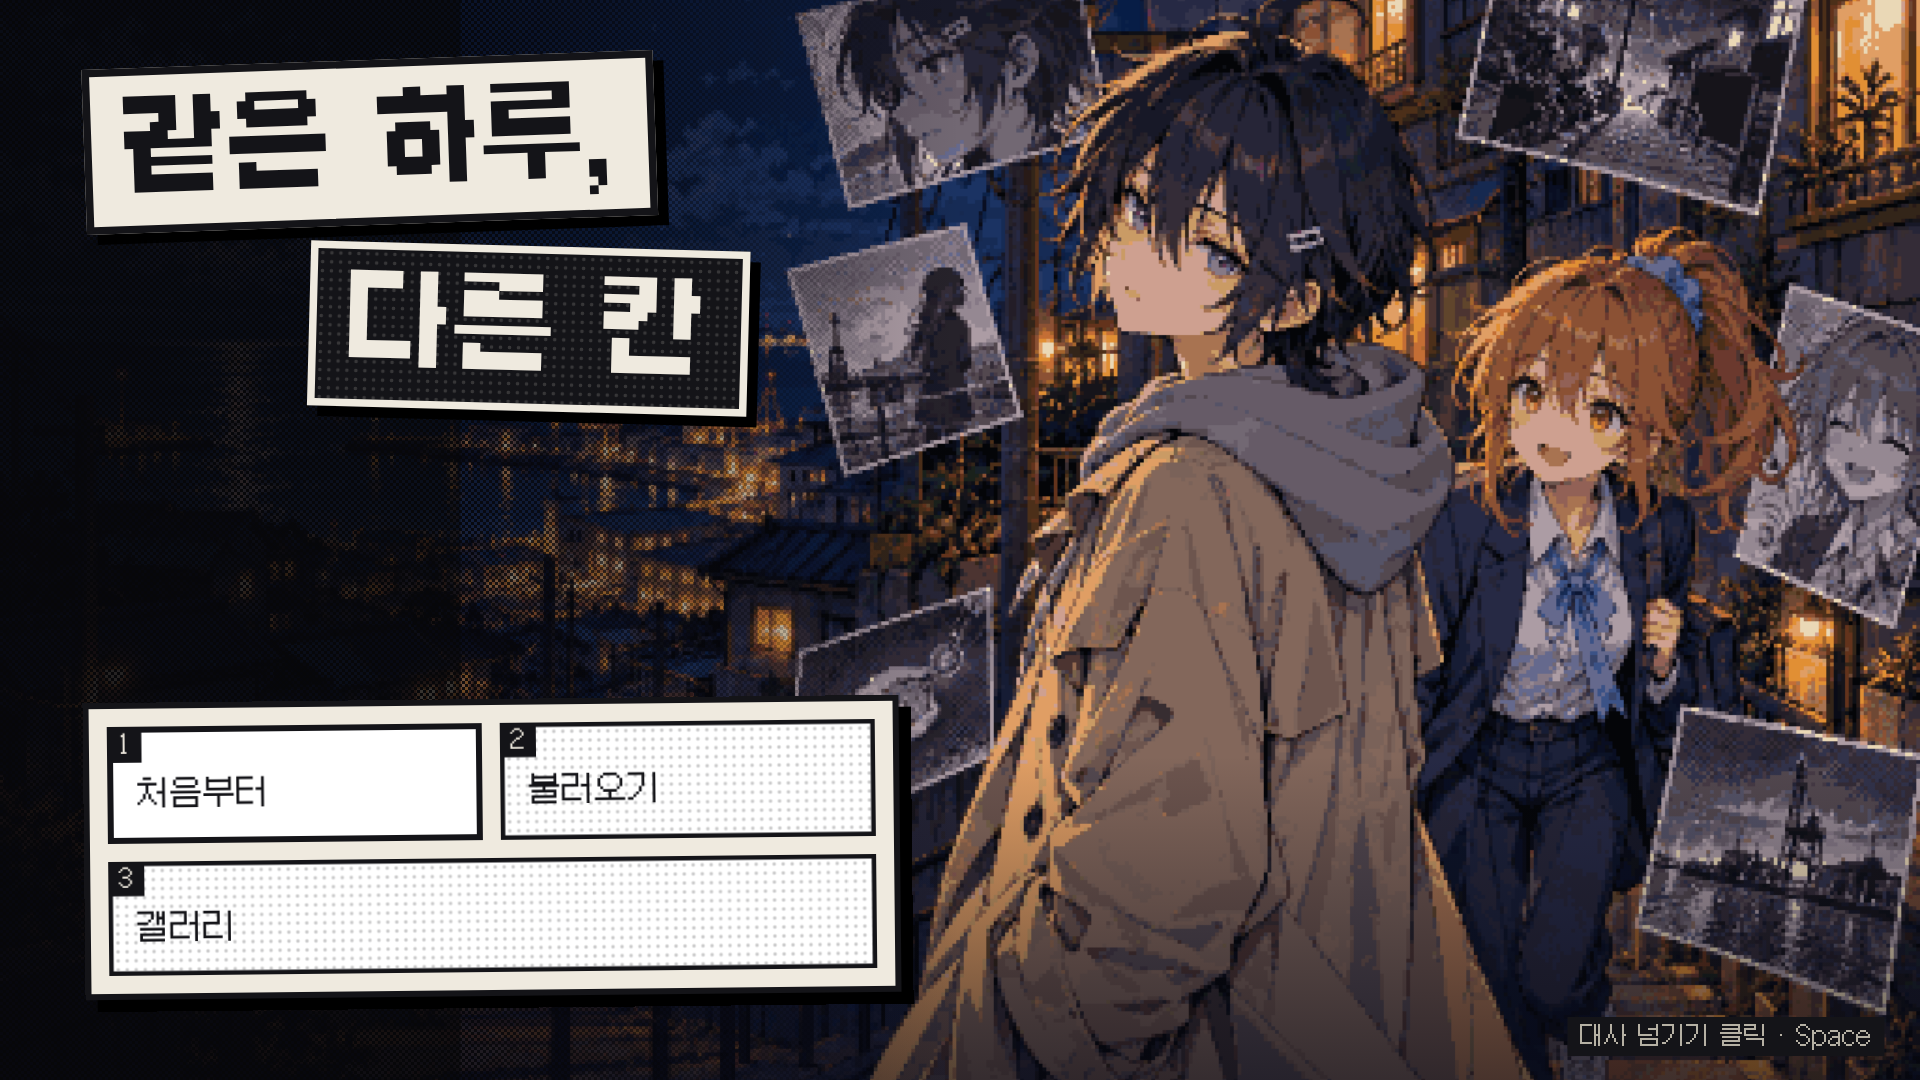
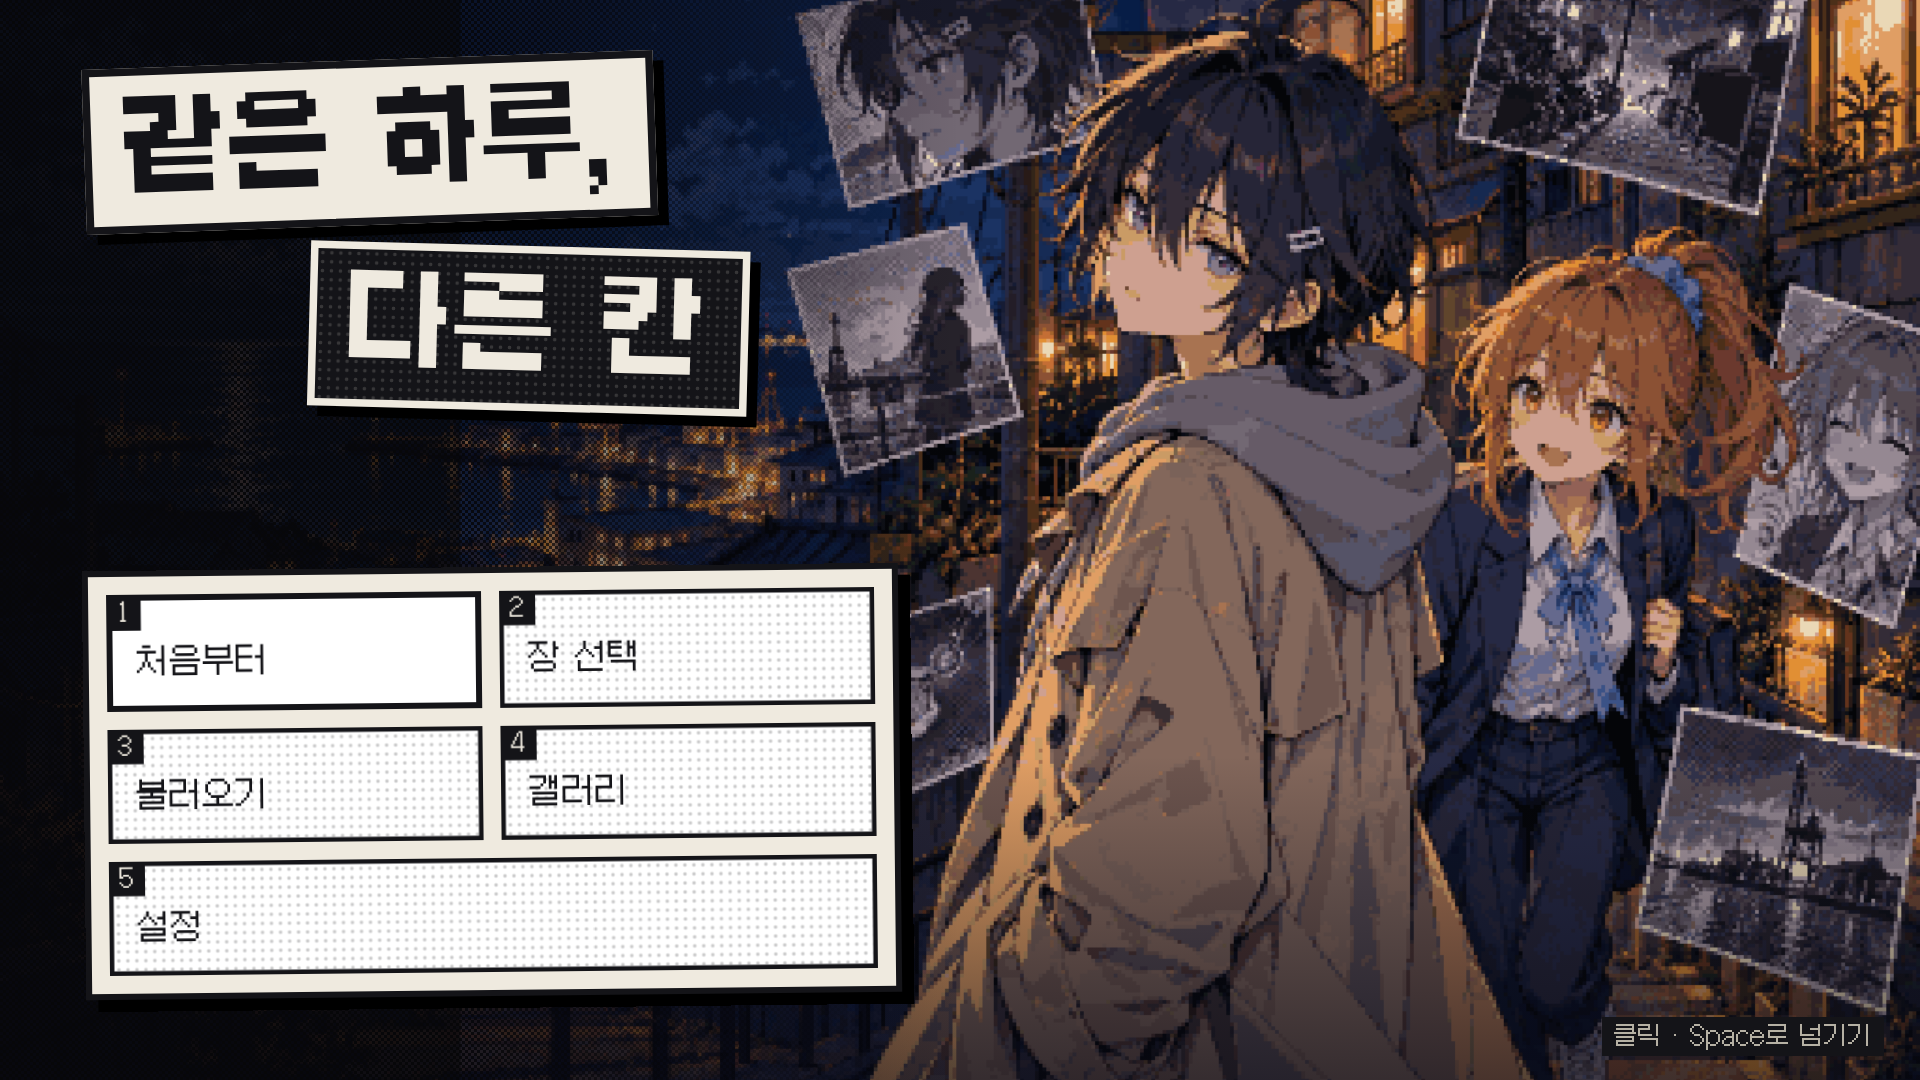
docs: 홍보글 다시, 타이틀·심문 스크린샷 새로
Claude-Session: https://claude.ai/code/session_01Eau5AueyeKfEKTxNRbKjxr

diff --git a/promo/POST.md b/promo/POST.md
@@ -2,37 +2,34 @@
 
 ## 짧은 버전 (X·디스코드)
 
-몇 달 붙잡고 있던 추리 게임 다 만들었어요
-「같은 하루, 다른 칸」 1장부터 종장까지 전부 열어 뒀습니다
+추리겜 만든 거 다 끝났음
+물건 만지면 그때 일이 만화 한 컷으로 보이는 형사가 주인공이고
+컷 순서 맞추고 증언 틀린 데 찾아서 까는 게임
 
-주인공이 물건을 만지면 그때 기억이 만화 한 칸으로 보이는데
-칸에 시간이 안 적혀 있어서 순서는 직접 맞춰야 해요
-증인이 거짓말하면 그 칸 내밀어서 깨는 거고요
-
-브라우저로 바로 됩니다. 폰이면 가로로 눕혀 주세요
+웹에서 바로 됨 폰은 가로로
 https://game2.2dasteria.workers.dev/
-
-#인디게임 #추리게임 #도트
-
-(사진: 01_title → 07_cast_team → 04_trial → 06_cutin)
 
 ---
 
 ## 긴 버전 (커뮤니티 게시판)
 
-**제목:** 혼자 만든 도트 추리 게임 끝까지 공개합니다 (브라우저, 무료)
+**제목:** 도트 추리게임 만들었는데 해볼 사람
 
-1장만 먼저 올렸다가 나머지 장이랑 그림 다 채워서 다시 올려요.
+혼자 만들던 거 드디어 끝까지 다 넣어서 올려봄
+웹이라 설치 없고 무료
 
-경찰서 구석에 「잔상과」라는 데가 있고, 거기 레이라는 수사관이 있어요. 물건에 손대면 그 물건이 본 순간이 만화 컷 한 장으로 보입니다. 근데 컷엔 시각이 없고, 같은 밤을 본 사람들이 다 조금씩 다르게 기억하고 있어요. 그래서 컷을 순서대로 놓아 보고, 말이 안 맞는 증언에 컷을 들이밀어서 깨는 식으로 진행돼요.
+물건 만지면 그 순간이 만화 한 컷처럼 보이는 형사가 사건 푸는 내용
+근데 컷에 시간이 없어서 순서는 직접 맞춰야 하고
+증인들 말 듣다가 안 맞는 데 있으면 컷 내밀어서 반박하는 식
 
-1장은 아파트 5층에서 피아노 선생님이 떨어진 사건이에요. 경비원은 택배 기사가 도망치는 걸 봤다고 하고, 택배 기사는 무서워서 도망쳤다는 말만 해요. 그 뒤로 라이브홀, 양과점, 목욕탕 화재 사건이 이어지고 마지막 장에서 레이 본인 얘기가 나옵니다.
+첫 사건은 아파트 5층에서 피아노 선생이 떨어진 거
+경비는 택배기사가 도망가는 거 봤다 하고 택배기사는 무서워서 도망쳤다는 말만 함
 
-설명 글 없이 그림 보고 푸는 방식이라 쉬운 편은 아니에요. 대신 막히면 힌트 쓸 수 있고, 타이틀에서 장 골라서 중간부터 할 수도 있어요. 엔딩은 세 개고 음악은 옛날 PC 게임 느낌으로 직접 만들었어요.
+글 설명 없이 그림 보고 풀어야 돼서 좀 빡셀 수 있음
+막히면 힌트 있고 타이틀에서 장 골라서 할 수도 있음
+다 하면 몇 시간 걸림
 
 https://game2.2dasteria.workers.dev/
-PC, 폰 둘 다 되는데 폰은 가로로 해 주세요. 전부 하면 몇 시간 걸려요.
+폰은 가로로 돌려서 해야 됨
 
-해 보시고 어디서 막혔는지, 뭐가 이상했는지 아무거나 말해 주시면 고칠게요. 설정에 [플레이 기록 내보내기]가 있는데 그 파일 주시면 어느 장면에서 오래 걸렸는지 보여서 진짜 도움 됩니다.
-
-(사진 순서: 01_title, 07_cast_team, 03_explore, 05_puzzle, 04_trial, 06_cutin)
+하다가 막힌 데나 이상한 거 있으면 댓글로 아무거나 써주면 고칠게
